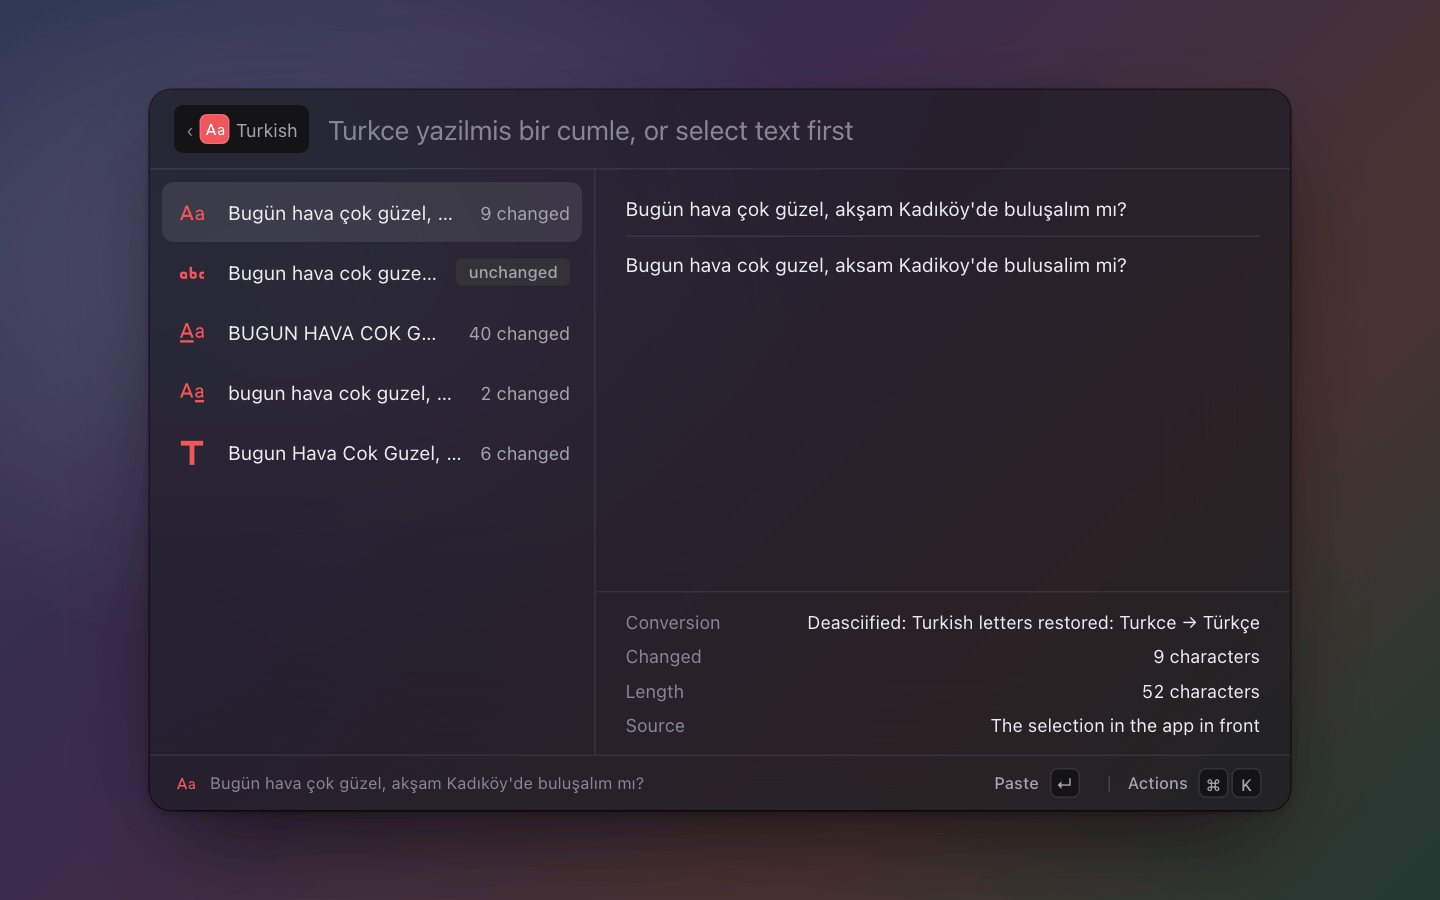
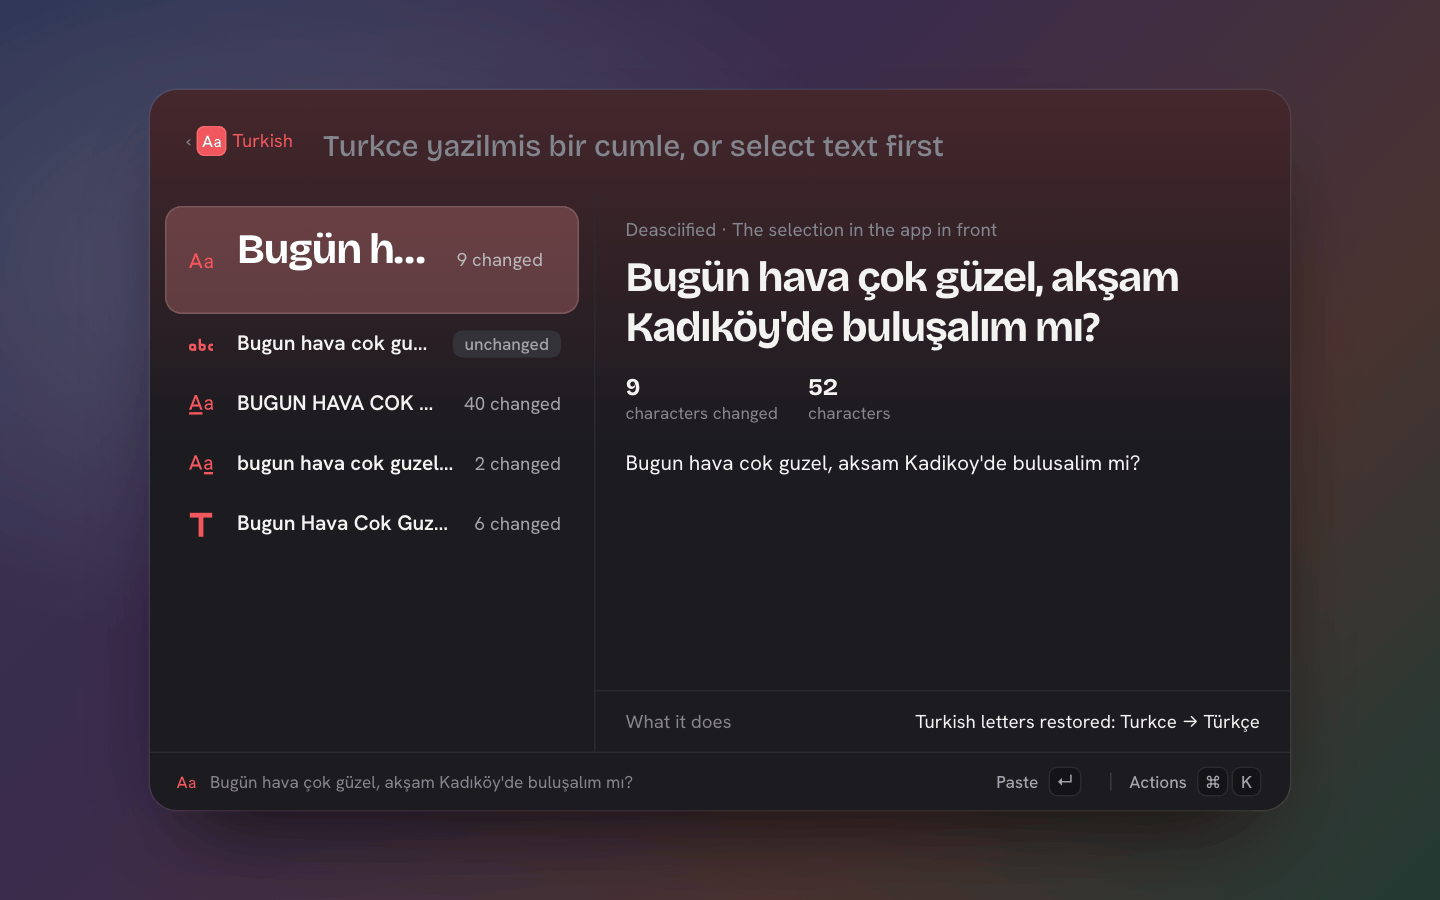
turkish: the restored letters are the answer (hero) when they changed anything; rows say only the conversion, where the text came from once; the pane leads with the result, the letters changed as stats

diff --git a/extensions/turkish/index.ts b/extensions/turkish/index.ts
@@ -35,14 +35,13 @@ async function source(typed: string): Promise<{ text: string; where: "typed" | "
   return (await textAtHand()) ?? undefined;
 }
 
-const detail = (kind: Conversion, out: string, src: string, where: string, n: number): Detail => ({
-  markdown: `${out}\n\n---\n\n${src}`,
-  metadata: [
-    { label: "Conversion", value: `${TITLES[kind]}: ${ABOUT[kind]}` },
-    { label: "Changed", value: n ? `${n} ${n === 1 ? "character" : "characters"}` : "nothing" },
-    { label: "Length", value: `${src.length} characters` },
-    { label: "Source", value: where === "typed" ? "Typed" : where === "selection" ? "The selection in the app in front" : "The clipboard" },
-  ],
+const WHERE = { typed: "Typed", selection: "The selection in the app in front", clipboard: "The clipboard" } as const;
+/** The result as a document: the conversion and where the text came from on top, the result as the title when it is a line (else first in the text), how many letters changed large, the source under it. */
+const detail = (kind: Conversion, out: string, src: string, where: keyof typeof WHERE, n: number): Detail => ({
+  caption: `${TITLES[kind]} · ${WHERE[where]}`,
+  ...(out.length <= 100 && !out.includes("\n") ? { title: out, markdown: src } : { markdown: `${out}\n\n---\n\n${src}` }),
+  stats: [{ value: String(n), label: n === 1 ? "character changed" : "characters changed" }, { value: String(src.length), label: "characters" }],
+  metadata: [{ label: "What it does", value: ABOUT[kind] }],
 });
 
 async function list(query = ""): Promise<Item[]> {
@@ -64,8 +63,11 @@ async function list(query = ""): Promise<Item[]> {
     held.set(kind, { text: out, source: src.text });
     rows.push({
       id: kind,
+      // The answer leads: Turkish letters restored, when that changed anything.
+      ...(kind === "deasciify" && n ? { hero: true } : {}),
       name: truncate(oneLine(out), 120) || " ",
-      subtitle: `${TITLES[kind]} · ${ABOUT[kind]}${whence}`,
+      // Where the text came from once, on the first row.
+      subtitle: `${TITLES[kind]}${rows.length ? "" : whence}`,
       icon: GLYPH[kind],
       keywords: [kind, TITLES[kind]],
       accessories: n ? [{ text: `${n} changed` }] : [{ tag: "unchanged", color: "grey" }],

diff --git a/host/test/extensions/turkish.test.ts b/host/test/extensions/turkish.test.ts
@@ -97,11 +97,12 @@ describe("turkish", () => {
       ["lower", "turkce yazilmis bir cumle"],
       ["title", "Turkce Yazilmis Bir Cumle"],
     ]);
-    expect(rows[0].subtitle).toBe("Deasciified · Turkish letters restored: Turkce → Türkçe");
+    expect(rows[0].subtitle).toBe("Deasciified");
     expect(rows[0].accessories).toEqual([{ text: "6 changed" }]);
     expect(rows[1].accessories).toEqual([{ tag: "unchanged", color: "grey" }]);
     expect(rows[0].actions!.map((a) => a.id)).toEqual(["paste", "copy", "translate", "copy-source"]);
-    expect(rows[0].detail!.metadata).toEqual(expect.arrayContaining([{ label: "Changed", value: "6 characters" }, { label: "Source", value: "Typed" }]));
+    expect(rows.map((r) => r.hero)).toEqual([true, undefined, undefined, undefined, undefined]);
+    expect(rows[0].detail).toMatchObject({ caption: "Deasciified · Typed", title: "Türkçe yazılmış bir cümle", markdown: "Turkce yazilmis bir cumle", stats: [{ value: "6", label: "characters changed" }, { value: "25", label: "characters" }], metadata: [{ label: "What it does", value: "Turkish letters restored: Turkce → Türkçe" }] });
     expect(await pick("deasciify")).toEqual({ paste: { text: "Türkçe yazılmış bir cümle" } });
     expect(await pick("deasciify", "copy")).toEqual({ copy: "Türkçe yazılmış bir cümle" });
     expect(await pick("upper", "copy-source")).toEqual({ copy: "Turkce yazilmis bir cumle" });
@@ -114,7 +115,7 @@ describe("turkish", () => {
     let rows = await list("");
     expect(rows[0].name).toBe("çok sıcak");
     expect(rows[0].subtitle).toContain("from the selection, Enter replaces it");
-    expect(rows[0].detail!.metadata).toContainEqual({ label: "Source", value: "The selection in the app in front" });
+    expect(rows[0].detail!.caption).toBe("Deasciified · The selection in the app in front");
     expect(await pick("deasciify")).toEqual({ paste: { text: "çok sıcak" } });
     selectionText = null;
     await host.advance(TEXT_AT_HAND_TTL_MS);
